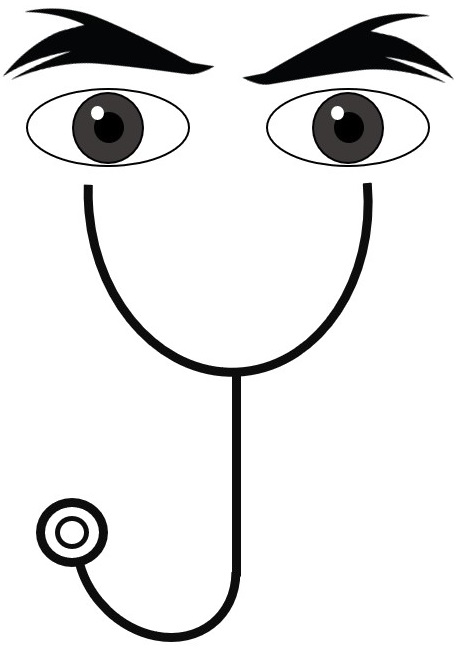
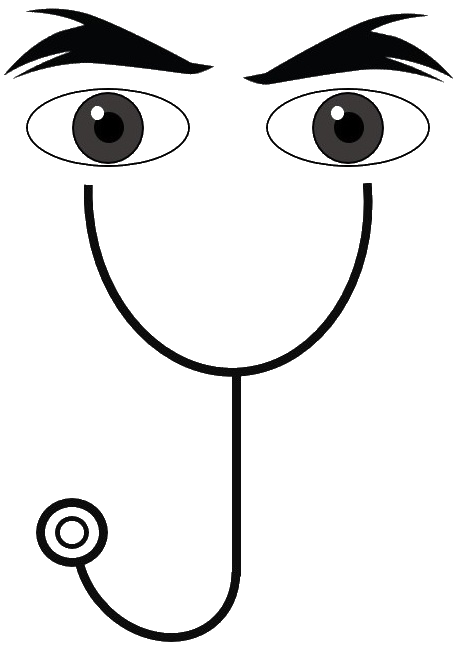
Finished eyes loading page

diff --git a/room/templates/eyes.html b/room/templates/eyes.html
@@ -13,13 +13,15 @@
         <div class="title">
             <center>
                 OfficeFace
+                <br>
+                <p style="color:lightgrey;font-size:20px;">Waiting for doctor</p>
             </center>
         </div>
 
         <div class="eyes">
             <center>
                <div class="object">
-                <img style="width: 300px;" src=../static/eyes/eyes.png>
+                <img style="width: 75%;" src=../static/eyes/eyes.png>
               </div>
             </center>
         </div>

diff --git a/room/static/styles/roomstyles.css b/room/static/styles/roomstyles.css
@@ -21,18 +21,19 @@ input::placeholder {
   }
 
   .object {
-    animation: MoveUpDown 5s linear infinite;
+    animation: float 5s linear infinite;
     position: absolute;
-    left: 625;
-    bottom: 00;
+    left: 50%;
+    bottom: 0%;
+    transform: translate(-50%, -0%);
   }
 
-  @keyframes MoveUpDown {
+  @keyframes float {
     0%, 100% {
       bottom: 0;
     }
     50% {
-      bottom: 100px;
+      bottom: 75px;
     }
   }
 
